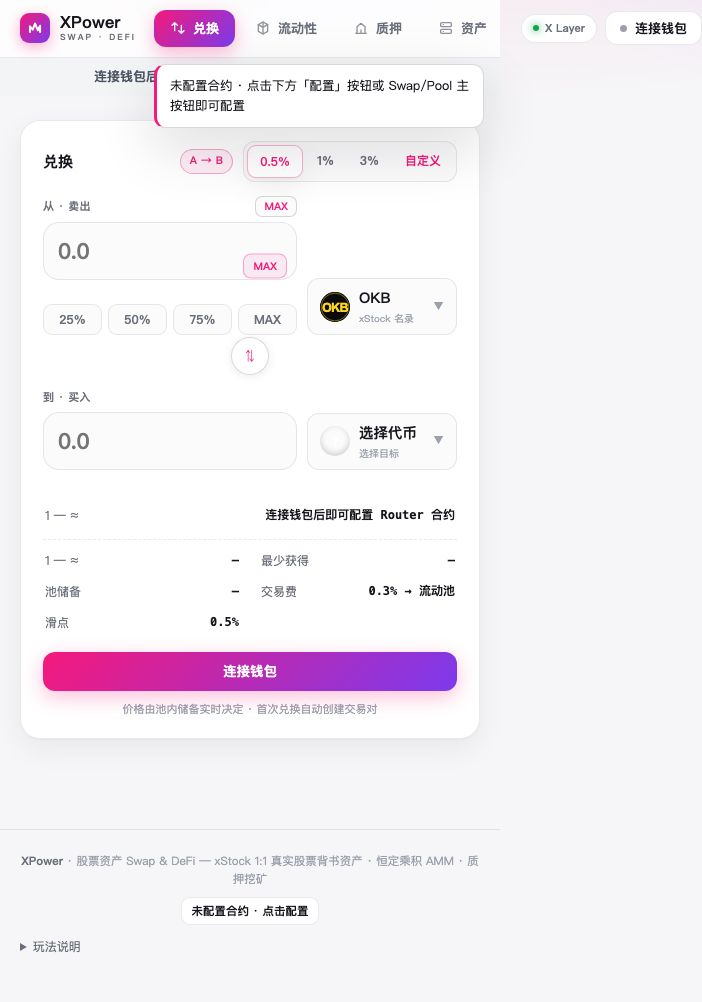
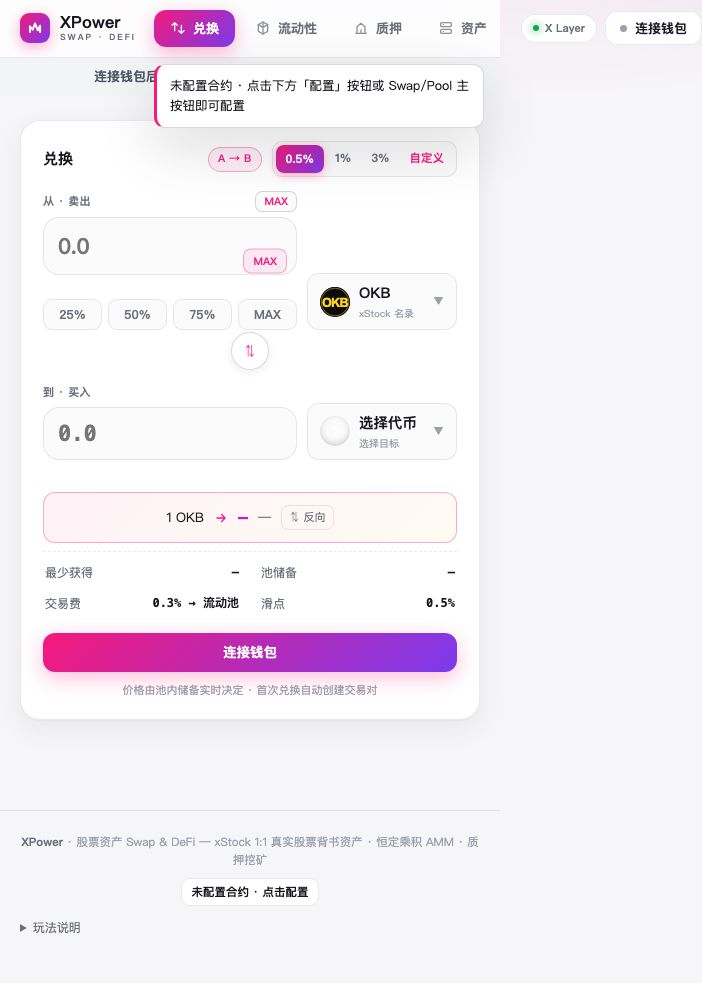
兑换页体验v2：大字价格条带反向按钮/到账渐变数字/交换旋转动画/滑点seg打磨

diff --git a/XPower Swap DApp.html b/XPower Swap DApp.html
@@ -264,6 +264,20 @@ input[type=text]:focus,input[type=number]:focus,select:focus,textarea:focus{outl
 .bal-card .amt{font-size:20px;font-weight:900;font-family:var(--mono);letter-spacing:-.5px;line-height:1.3}
 .list .item:hover{background:var(--card2)}
 .list .item{transition:background .15s}
+/* ===== 兑换页体验 v2 ===== */
+.pricebar{display:flex;align-items:center;justify-content:center;gap:10px;margin:14px 0 2px;padding:11px 14px;border:1px solid var(--acc-line);border-radius:12px;background:linear-gradient(135deg,rgba(245,25,123,.06),rgba(255,169,0,.05));font-size:13px}
+.pricebar b{font-family:var(--mono);font-size:17px;font-weight:900;background:var(--acc-grad);-webkit-background-clip:text;background-clip:text;color:transparent}
+.pricebar .pflip{cursor:pointer;color:var(--dim);font-size:11px;padding:3px 7px;border:1px solid var(--line);border-radius:7px;transition:.15s}
+.pricebar .pflip:hover{color:var(--acc);border-color:var(--acc-line)}
+#outAmt{font-size:22px!important;font-weight:900;font-family:var(--mono);letter-spacing:-.5px}
+#outAmt.grad{background:var(--acc-grad);-webkit-background-clip:text;background-clip:text;color:transparent}
+.arrow-mid button{transition:transform .3s cubic-bezier(.2,.8,.3,1)}
+.arrow-mid button.flip{transform:rotate(180deg)}
+.arrow-mid button:hover{color:var(--acc);border-color:var(--acc-line)}
+.seg{border:1px solid var(--line);border-radius:10px;padding:3px;background:var(--card2)}
+.seg div{padding:4px 9px;border-radius:8px;font-size:11.5px;font-weight:800;color:var(--dim);cursor:pointer;transition:.15s}
+.seg div:hover{color:var(--acc)}
+.seg div.on{background:var(--acc-grad);color:#fff;box-shadow:0 3px 10px rgba(245,25,123,.3)}
 </style>
 </head>
 <body>
@@ -325,14 +339,14 @@ input[type=text]:focus,input[type=number]:focus,select:focus,textarea:focus{outl
           <div class="tokbtn" id="toBtn" onclick="pickToken('to')"><span class="lg" id="toLg">?</span><span><span class="nm2" id="toNm">选择代币</span><span class="sub2" id="toSub">选择目标</span></span><span class="caret">▼</span></div>
         </div>
         <div class="balrow" id="toBal"></div>
-        <div class="info-row" style="margin-top:12px"><span>1 <span id="rFrom">—</span> ≈</span><b id="rateTxt">—</b></div>
+        <div class="pricebar"><span>1 <span id="rFrom">—</span></span><svg width="14" height="14" viewBox="0 0 24 24" fill="none" stroke="currentColor" stroke-width="2.2" stroke-linecap="round" stroke-linejoin="round" style="color:var(--acc)"><path d="M5 12h14M13 6l6 6-6 6"/></svg><b id="rateBig">—</b><span id="rTo" style="color:var(--dim)">—</span><span class="pflip" onclick="flipSwap()">⇅ 反向</span></div>
         <div class="info-grid">
-          <div class="info-row"><span>1 <span id="rTo">—</span> ≈</span><b id="revTxt">—</b></div>
           <div class="info-row"><span>最少获得</span><b id="minTxt" style="font-family:var(--mono)">—</b></div>
           <div class="info-row"><span>池储备</span><b id="depthTxt" style="font-family:var(--mono)">—</b></div>
           <div class="info-row"><span>交易费</span><b>0.3% → 流动池</b></div>
           <div class="info-row"><span>滑点</span><b id="slipTxt">0.5%</b></div>
         </div>
+        <span id="rateTxt" style="display:none">—</span>
         <div id="swapErr" class="errbox"></div>
         <button class="btn primary wide" id="btnSwap" style="margin-top:14px" onclick="swapCta()">兑换</button>
         <div style="text-align:center;font-size:11px;color:var(--faint);margin-top:10px">价格由池内储备实时决定 · 首次兑换自动创建交易对</div>
@@ -1416,7 +1430,11 @@ function selToken(addr,sym,name,dec,logo,nat){
 
 /* ============ Swap ============ */
 function swapSel(k,t){if(k==="from")sA=t;else sB=t;renderSwapSel();quoteSwap();}
-function flipSwap(){const t=sA;sA=sB;sB=t;renderSwapSel();quoteSwap();}
+function flipSwap(){
+  const am=$("arrow-mid")||document.querySelector(".arrow-mid button");
+  if(am){am.classList.remove("flip");void am.offsetWidth;am.classList.add("flip");}
+  const t=sA;sA=sB;sB=t;renderSwapSel();quoteSwap();
+}
 function setTokBtn(btnId,lgId,nmId,t){
   const b=$(btnId),l=$(lgId),n=$(nmId);if(!b)return;
   if(t){l.outerHTML=logoSvg(t.sym,lgId,t.logo);n.textContent=t.sym;}
@@ -1425,6 +1443,8 @@ function setTokBtn(btnId,lgId,nmId,t){
 function renderSwapSel(){
   setTokBtn("fromBtn","fromLg","fromNm",sA);setTokBtn("toBtn","toLg","toNm",sB);
   if(sA&&sB)$("swapDir").textContent=sA.sym+" → "+sB.sym;
+  const rf=$("rFrom");if(rf)rf.textContent=sA?sA.sym:"—";
+  const rto=$("rTo");if(rto)rto.textContent=sB?sB.sym:"—";
   quoteSwap();
 }
 function updateSwapBal(){
@@ -1490,9 +1510,11 @@ async function quoteSwap(){
       return {out,minOut,depth};
     });
     $("outAmt").value=fmtPrice(res.out);
+    const oa=$("outAmt");if(oa)oa.classList.toggle("grad",sB&&sB.sym==="XPR");
     if(res.out>0){
       rate.textContent=fmtPrice(res.out/n)+" "+sB.sym;
-      const rTo=$("rTo");if(rTo)rTo.textContent="1 "+sB.sym;
+      const rb=$("rateBig");if(rb)rb.textContent=fmtPrice(res.out/n);
+      const rTo=$("rTo");if(rTo)rTo.textContent=sB.sym;
       const rev=$("revTxt");if(rev)rev.textContent=fmtPrice(n/res.out)+" "+sA.sym;
       const min=$("minTxt");if(min)min.textContent=fmtPrice(res.minOut)+" "+sB.sym+"（-"+((slipPct*100).toFixed(2))+"%）";
       const dp=$("depthTxt");
